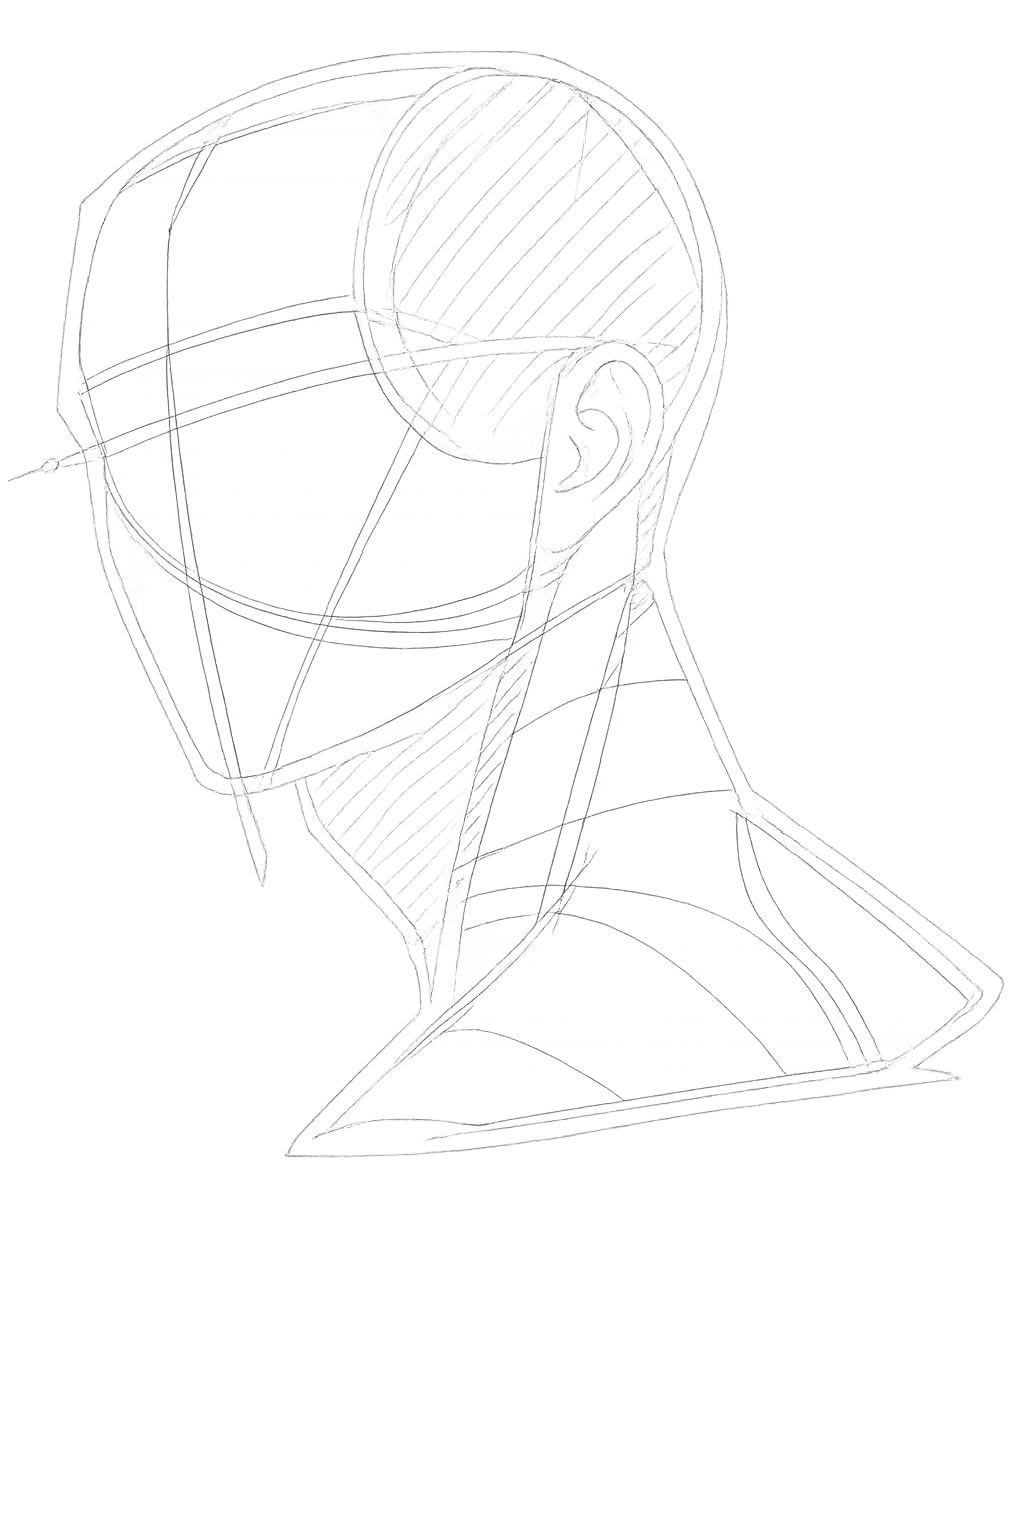
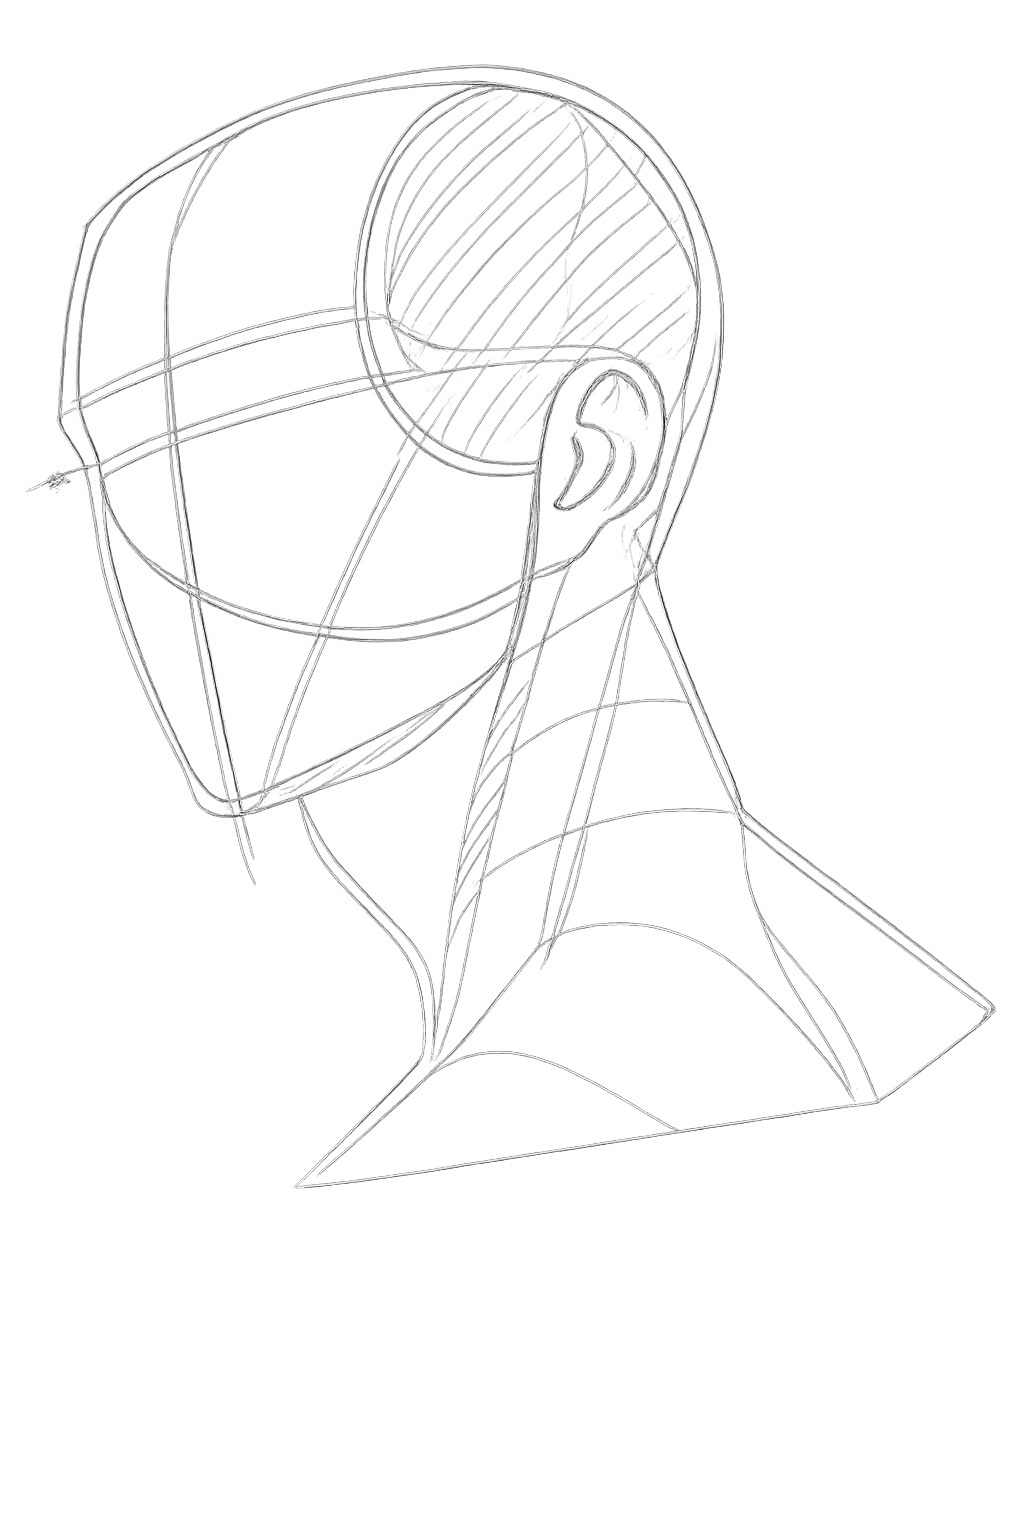
New sketch head

diff --git a/index.html b/index.html
@@ -81,7 +81,7 @@
       <div class="mx-auto max-w-6xl px-4 grid md:grid-cols-12 gap-10 items-center">
         <div class="md:col-span-7 flex flex-col items-start">
           <!-- Large logo instead of text -->
-          <img src="assets/logo.svg" alt="Cave Like Carving logo" class="w-64 md:w-[28rem] lg:w-[36rem] mb-6 opacity-90">
+          <img src="assets/logo.svg" alt="Cave Like Carving logo" class="w-64 md:w-[28rem] lg:w-[36rem] mb-6 opacity-70">
 
           <p class="max-w-md text-accent">
             A sentence or two about the type of sound we create to go here — text placeholder.
@@ -100,7 +100,7 @@
         </div>
 
         <div class="md:col-span-5 flex justify-center md:justify-end">
-          <img src="assets/sketch-head.png" alt="wireframe head illustration" class="w-64 md:w-80 opacity-70" />
+          <img src="assets/sketch-head.png" alt="wireframe head illustration" class="w-64 md:w-80 opacity-100" />
         </div>
       </div>
     </section>
